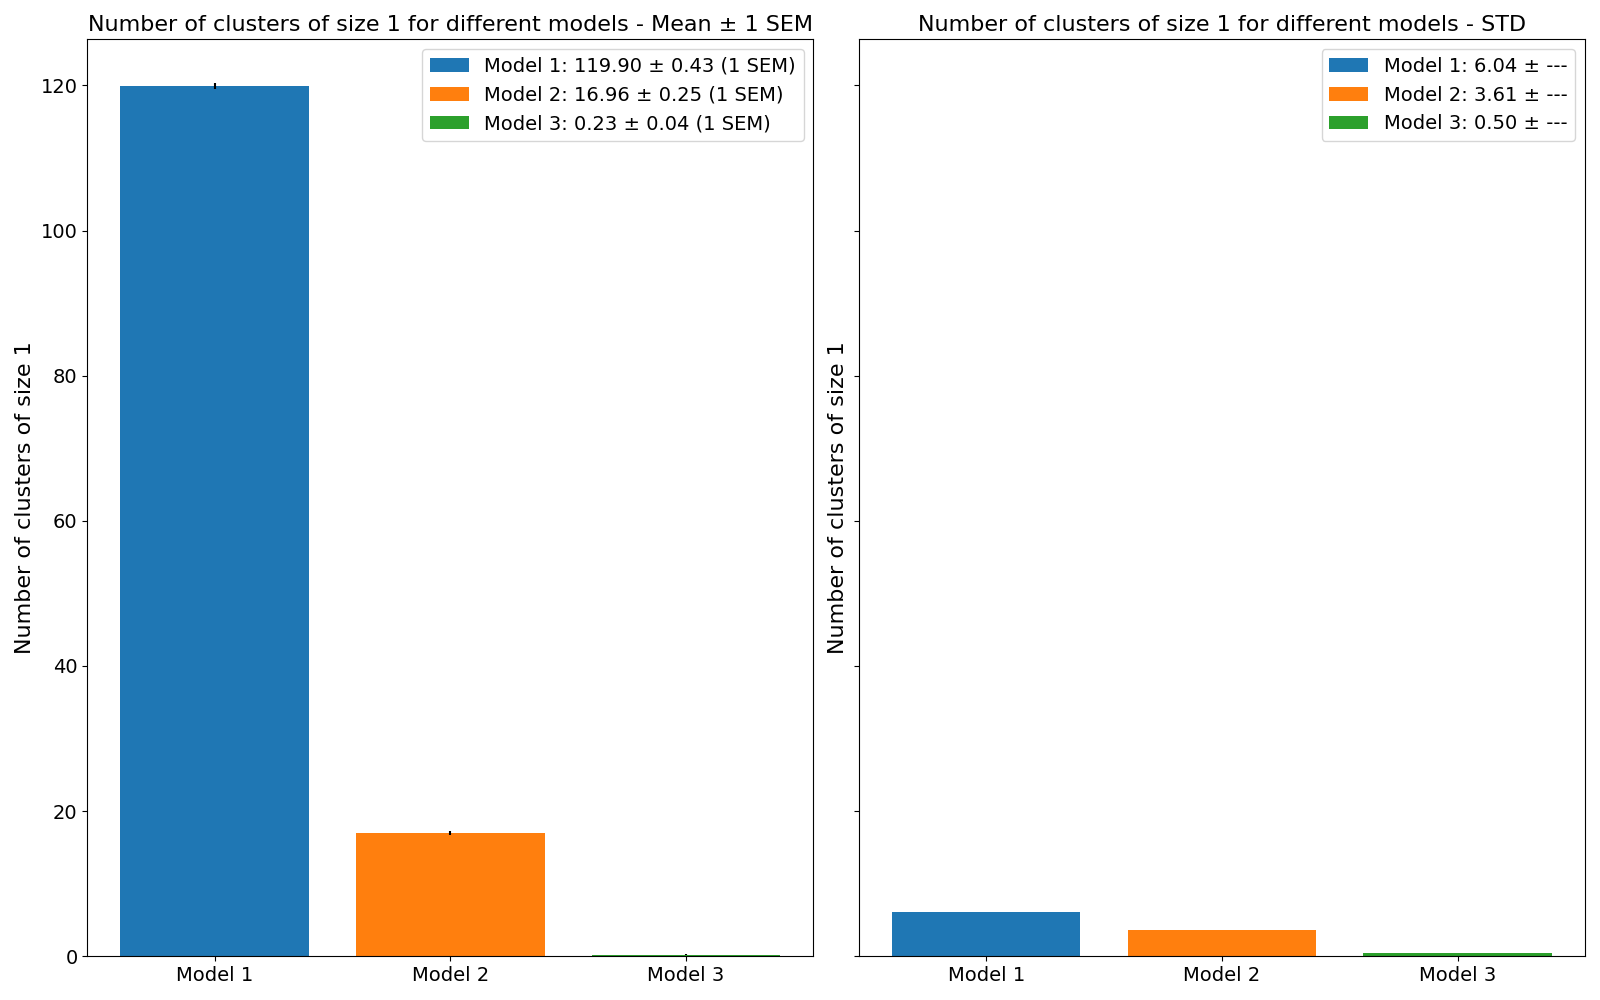
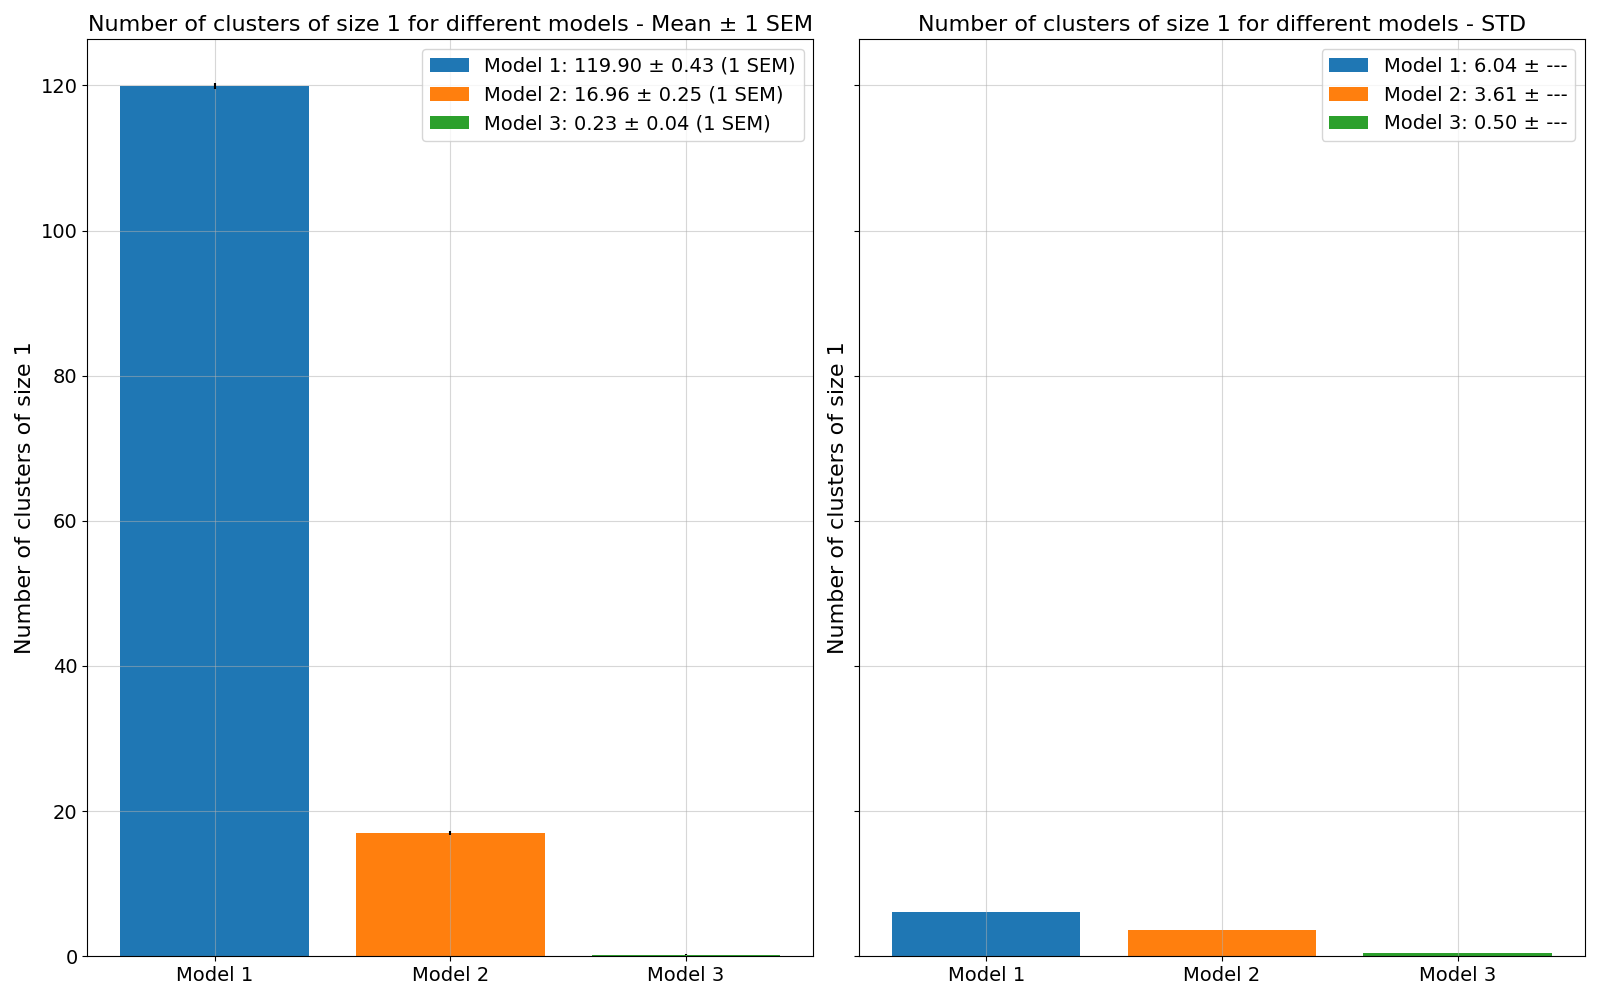
Fixing and adding plots to plots_trimmed_outfiles_fixed.py

diff --git a/plots_code/plots_trimmed_outfiles_fixed.py b/plots_code/plots_trimmed_outfiles_fixed.py
@@ -79,6 +79,7 @@ axs[0].tick_params(axis='y', labelsize=14)
 axs[0].set_ylabel('Number of clusters', fontsize ='16')
 axs[0].set_title('Number of clusters for different models - Mean ± 1 SEM', fontsize ='16')
 axs[0].legend(fontsize=14)
+axs[0].grid(True, alpha=0.5)
 
 
 right_bar_1 = axs[1].bar(models, std_123_1, label=bar_labels_std, color=colors[:4])
@@ -90,6 +91,7 @@ axs[1].tick_params(axis='y', labelsize=14)
 axs[1].set_ylabel('Number of clusters', fontsize ='16')
 axs[1].set_title('Number of clusters for different models - STD', fontsize ='16')
 axs[1].legend(fontsize=14)
+axs[1].grid(True, alpha=0.5)
 
 plt.savefig(save_plots_to + "plot_1_model_123_SS_run_1.png", dpi='figure')
 plt.show()
@@ -112,6 +114,7 @@ axs[0].tick_params(axis='y', labelsize=14)
 axs[0].set_ylabel('Mean size of clusters', fontsize ='16')
 axs[0].set_title('Mean size of clusters for different models - Mean ± 1 SEM', fontsize ='16')
 axs[0].legend(fontsize=14)
+axs[0].grid(True, alpha=0.5)
 
 
 right_bar_2 = axs[1].bar(models, std_123_2, label=bar_labels_std, color=colors[:4])
@@ -123,6 +126,7 @@ axs[1].tick_params(axis='y', labelsize=14)
 axs[1].set_ylabel('Mean size of clusters', fontsize ='16')
 axs[1].set_title('Mean size of clusters for different models - STD', fontsize ='16')
 axs[1].legend(fontsize=14)
+axs[1].grid(True, alpha=0.5)
 
 plt.savefig(save_plots_to + "plot_2_model_123_SS_run_1.png", dpi='figure')
 plt.show()
@@ -145,6 +149,7 @@ axs[0].tick_params(axis='y', labelsize=14)
 axs[0].set_ylabel('Size of largest cluster', fontsize ='16')
 axs[0].set_title('Size of largest cluster for different models - Mean ± 1 SEM', fontsize ='16')
 axs[0].legend(fontsize=14)
+axs[0].grid(True, alpha=0.5)
 
 
 right_bar_3 = axs[1].bar(models, std_123_3, label=bar_labels_std, color=colors[:4])
@@ -156,6 +161,7 @@ axs[1].tick_params(axis='y', labelsize=14)
 axs[1].set_ylabel('Size of largest cluster', fontsize ='16')
 axs[1].set_title('Size of largest cluster for different models - STD', fontsize ='16')
 axs[1].legend(fontsize=14)
+axs[1].grid(True, alpha=0.5)
 
 plt.savefig(save_plots_to + "plot_3_model_123_SS_run_1.png", dpi='figure')
 plt.show()
@@ -178,6 +184,7 @@ axs[0].tick_params(axis='y', labelsize=14)
 axs[0].set_ylabel('Number of clusters of size 1', fontsize ='16')
 axs[0].set_title('Number of clusters of size 1 for different models - Mean ± 1 SEM', fontsize ='16')
 axs[0].legend(fontsize=14)
+axs[0].grid(True, alpha=0.5)
 
 
 right_bar_4 = axs[1].bar(models, std_123_4, label=bar_labels_std, color=colors[:4])
@@ -189,6 +196,7 @@ axs[1].tick_params(axis='y', labelsize=14)
 axs[1].set_ylabel('Number of clusters of size 1', fontsize ='16')
 axs[1].set_title('Number of clusters of size 1 for different models - STD', fontsize ='16')
 axs[1].legend(fontsize=14)
+axs[1].grid(True, alpha=0.5)
 
 plt.savefig(save_plots_to + "plot_4_model_123_SS_run_1.png", dpi='figure')
 plt.show()
@@ -211,6 +219,7 @@ axs[0].tick_params(axis='y', labelsize=14)
 axs[0].set_ylabel('Number of proteins bound to polymer', fontsize ='16')
 axs[0].set_title('Number of proteins bound to polymer for different models - Mean ± 1 SEM', fontsize ='16')
 axs[0].legend(fontsize=14)
+axs[0].grid(True, alpha=0.5)
 
 
 right_bar_5 = axs[1].bar(models, std_123_5, label=bar_labels_std, color=colors[:4])
@@ -222,6 +231,7 @@ axs[1].tick_params(axis='y', labelsize=14)
 axs[1].set_ylabel('Number of proteins bound to polymer', fontsize ='16')
 axs[1].set_title('Number of proteins bound to polymer for different models - STD', fontsize ='16')
 axs[1].legend(fontsize=14)
+axs[1].grid(True, alpha=0.5)
 
 plt.savefig(save_plots_to + "plot_5_model_123_SS_run_1.png", dpi='figure')
 plt.show()
@@ -235,7 +245,7 @@ bar_labels_std = [f'{model}: {std_123_6[i]:.2f} ± ---' for i, model in enumerat
 
 fig, axs = plt.subplots(1, 2, sharey=True, figsize=(16, 10), tight_layout=True)
 
-left_bar_5 = axs[0].bar(models, mean_123_6, yerr=sem_123_6, label=bar_labels_mean, color=colors[:4])
+left_bar_6 = axs[0].bar(models, mean_123_6, yerr=sem_123_6, label=bar_labels_mean, color=colors[:4])
 
 axs[0].set_xticks(x_pos)
 axs[0].tick_params(axis='x', labelsize=14)
@@ -244,9 +254,10 @@ axs[0].tick_params(axis='y', labelsize=14)
 axs[0].set_ylabel('Fraction of clusters bound to polymer', fontsize ='16')
 axs[0].set_title('Fraction of clusters bound to polymer for different models - Mean ± 1 SEM', fontsize ='16')
 axs[0].legend(fontsize=14)
+axs[0].grid(True, alpha=0.5)
 
 
-right_bar_5 = axs[1].bar(models, std_123_6, label=bar_labels_std, color=colors[:4])
+right_bar_6 = axs[1].bar(models, std_123_6, label=bar_labels_std, color=colors[:4])
 
 axs[1].set_xticks(x_pos)
 axs[1].tick_params(axis='x', labelsize=14)
@@ -255,8 +266,44 @@ axs[1].tick_params(axis='y', labelsize=14)
 axs[1].set_ylabel('Fraction of clusters bound to polymer', fontsize ='16')
 axs[1].set_title('Fraction of clusters bound to polymer for different models - STD', fontsize ='16')
 axs[1].legend(fontsize=14)
+axs[1].grid(True, alpha=0.5)
 
 plt.savefig(save_plots_to + "plot_6_model_123_SS_run_1.png", dpi='figure')
+plt.show()
+
+
+# plot 7 - Number of type 2 polymers bound to proteins vs Timesteps - Mean ± 1 SEM and STD
+mean_123_7, std_123_7, sem_123_7 = get_stats_123(data_frames_123_trimmed, 'No_type_2_poly_bound_to_prot')
+
+bar_labels_mean = [f'{model}: {mean_123_7[i]:.2f} ± {sem_123_7[i]:.2f} (1 SEM)' for i, model in enumerate(models)]
+bar_labels_std = [f'{model}: {std_123_7[i]:.2f} ± ---' for i, model in enumerate(models)]
+
+fig, axs = plt.subplots(1, 2, sharey=True, figsize=(16, 10), tight_layout=True)
+
+left_bar_7 = axs[0].bar(models, mean_123_7, yerr=sem_123_7, label=bar_labels_mean, color=colors[:4])
+
+axs[0].set_xticks(x_pos)
+axs[0].tick_params(axis='x', labelsize=14)
+axs[0].tick_params(axis='y', labelsize=14)
+#axs[0].set_xlabel('Models', fontsize ='16')
+axs[0].set_ylabel('Number of type 2 polymers bound to proteins', fontsize ='16')
+axs[0].set_title('Number of type 2 polymers bound to proteins for different models - Mean ± 1 SEM', fontsize ='16')
+axs[0].legend(fontsize=14)
+axs[0].grid(True, alpha=0.5)
+
+
+right_bar_7 = axs[1].bar(models, std_123_7, label=bar_labels_std, color=colors[:4])
+
+axs[1].set_xticks(x_pos)
+axs[1].tick_params(axis='x', labelsize=14)
+axs[1].tick_params(axis='y', labelsize=14)
+#axs[1].set_xlabel('Models', fontsize ='16')
+axs[1].set_ylabel('Number of type 2 polymers bound to proteins', fontsize ='16')
+axs[1].set_title('Number of type 2 polymers bound to proteins for different models - STD', fontsize ='16')
+axs[1].legend(fontsize=14)
+axs[1].grid(True, alpha=0.5)
+
+plt.savefig(save_plots_to + "plot_7_model_123_SS_run_1.png", dpi='figure')
 plt.show()
 
 
@@ -276,10 +323,12 @@ data_frames_4_trimmed_control = {}
 for i in range(1, 9):
     data_frames_4_trimmed[i] = pd.read_csv(path_to_trimmed_outfiles + trimmed_outfiles_list_4[i-1], sep=' ', comment='#', header=None)
     data_frames_4_trimmed[i].columns = ['Timesteps', 'No_of_clusters', 'Mean_size_of_clusters', 
-                                        'Size_of_largest_cluster', 'No_of_clusters_of_size_1', 'No_proteins_bound_to_poly']
+                                        'Size_of_largest_cluster', 'No_of_clusters_of_size_1', 'No_proteins_bound_to_poly', 
+                                        'Fraction_clusters_bound_to_poly', 'No_type_2_poly_bound_to_prot']
     data_frames_4_trimmed_control[i] = pd.read_csv(path_to_trimmed_outfiles + trimmed_outfiles_list_4_control[i-1], sep=' ', comment='#', header=None)
     data_frames_4_trimmed_control[i].columns = ['Timesteps', 'No_of_clusters', 'Mean_size_of_clusters', 
-                                        'Size_of_largest_cluster', 'No_of_clusters_of_size_1', 'No_proteins_bound_to_poly']
+                                        'Size_of_largest_cluster', 'No_of_clusters_of_size_1', 'No_proteins_bound_to_poly', 
+                                        'Fraction_clusters_bound_to_poly', 'No_type_2_poly_bound_to_prot']
 
 
 # get stats of model 4 for a particular dataframe and column + append it to a list
@@ -312,6 +361,7 @@ axs[0].tick_params(axis='y', labelsize=14)
 axs[0].set_xlabel('Protein-protein attraction strength (kBT)', fontsize ='16')
 axs[0].set_ylabel('Number of clusters', fontsize ='16')
 axs[0].set_title('Number of clusters vs. protein-protein attraction strength', fontsize ='16')
+axs[0].grid(True, alpha=0.5)
 
 
 right_bar_1 = axs[1].errorbar(pp_attraction, mean_4_1_control, yerr=sem_4_1_control, fmt='or', alpha=0.7, ecolor='black')
@@ -322,8 +372,9 @@ axs[1].tick_params(axis='y', labelsize=14)
 axs[1].set_xlabel('Protein-protein attraction strength (kBT)', fontsize ='16')
 axs[1].set_ylabel('Number of clusters', fontsize ='16')
 axs[1].set_title('Number of clusters vs. protein-protein attraction strength - Control', fontsize ='16')
+axs[1].grid(True, alpha=0.5)
 
-plt.savefig(save_plots_to + "plot_5_model_4_SS_run_1.png", dpi='figure')
+plt.savefig(save_plots_to + "plot_1_model_4_SS_run_1.png", dpi='figure')
 plt.show()
 
 
@@ -341,6 +392,7 @@ axs[0].tick_params(axis='y', labelsize=14)
 axs[0].set_xlabel('Protein-protein attraction strength (kBT)', fontsize ='16')
 axs[0].set_ylabel('Mean size of clusters', fontsize ='16')
 axs[0].set_title('Mean size of clusters vs. protein-protein attraction strength', fontsize ='16')
+axs[0].grid(True, alpha=0.5)
 
 
 right_bar_2 = axs[1].errorbar(pp_attraction, mean_5_1_control, yerr=sem_5_1_control, fmt='or', alpha=0.7, ecolor='black')
@@ -351,6 +403,7 @@ axs[1].tick_params(axis='y', labelsize=14)
 axs[1].set_xlabel('Protein-protein attraction strength (kBT)', fontsize ='16')
 axs[1].set_ylabel('Mean size of clusters', fontsize ='16')
 axs[1].set_title('Mean size of clusters vs. protein-protein attraction strength - Control', fontsize ='16')
+axs[1].grid(True, alpha=0.5)
 
 plt.savefig(save_plots_to + "plot_2_model_4_SS_run_1.png", dpi='figure')
 plt.show()
@@ -370,6 +423,7 @@ axs[0].tick_params(axis='y', labelsize=14)
 axs[0].set_xlabel('Protein-protein attraction strength (kBT)', fontsize ='16')
 axs[0].set_ylabel('Size of largest cluster', fontsize ='16')
 axs[0].set_title('Size of largest cluster vs. protein-protein attraction strength', fontsize ='16')
+axs[0].grid(True, alpha=0.5)
 
 
 right_bar_3 = axs[1].errorbar(pp_attraction, mean_4_3_control, yerr=sem_4_3_control, fmt='or', alpha=0.7, ecolor='black')
@@ -380,6 +434,7 @@ axs[1].tick_params(axis='y', labelsize=14)
 axs[1].set_xlabel('Protein-protein attraction strength (kBT)', fontsize ='16')
 axs[1].set_ylabel('Size of largest cluster', fontsize ='16')
 axs[1].set_title('Size of largest cluster vs. protein-protein attraction strength - Control', fontsize ='16')
+axs[1].grid(True, alpha=0.5)
 
 plt.savefig(save_plots_to + "plot_3_model_4_SS_run_1.png", dpi='figure')
 plt.show()
@@ -399,6 +454,7 @@ axs[0].tick_params(axis='y', labelsize=14)
 axs[0].set_xlabel('Protein-protein attraction strength (kBT)', fontsize ='16')
 axs[0].set_ylabel('Number of clusters of size 1', fontsize ='16')
 axs[0].set_title('Number of clusters of size 1 vs. protein-protein attraction strength', fontsize ='16')
+axs[0].grid(True, alpha=0.5)
 
 
 right_bar_4 = axs[1].errorbar(pp_attraction, mean_4_4_control, yerr=sem_4_4_control, fmt='or', alpha=0.7, ecolor='black')
@@ -409,6 +465,7 @@ axs[1].tick_params(axis='y', labelsize=14)
 axs[1].set_xlabel('Protein-protein attraction strength (kBT)', fontsize ='16')
 axs[1].set_ylabel('Number of clusters of size 1', fontsize ='16')
 axs[1].set_title('Number of clusters of size 1 vs. protein-protein attraction strength - Control', fontsize ='16')
+axs[1].grid(True, alpha=0.5)
 
 plt.savefig(save_plots_to + "plot_4_model_4_SS_run_1.png", dpi='figure')
 plt.show()
@@ -428,6 +485,7 @@ axs[0].tick_params(axis='y', labelsize=14)
 axs[0].set_xlabel('Protein-protein attraction strength (kBT)', fontsize ='16')
 axs[0].set_ylabel('Number of proteins bound to polymer', fontsize ='16')
 axs[0].set_title('Number of proteins bound to polymer vs. protein-protein attraction strength', fontsize ='16')
+axs[0].grid(True, alpha=0.5)
 
 
 right_bar_5 = axs[1].errorbar(pp_attraction, mean_4_5_control, yerr=sem_4_5_control, fmt='or', alpha=0.7, ecolor='black')
@@ -438,6 +496,69 @@ axs[1].tick_params(axis='y', labelsize=14)
 axs[1].set_xlabel('Protein-protein attraction strength (kBT)', fontsize ='16')
 axs[1].set_ylabel('Number of proteins bound to polymer', fontsize ='16')
 axs[1].set_title('Number of proteins bound to polymer vs. protein-protein attraction strength - Control', fontsize ='16')
+axs[1].grid(True, alpha=0.5)
 
 plt.savefig(save_plots_to + "plot_5_model_4_SS_run_1.png", dpi='figure')
+plt.show()
+
+
+# plot 6 - Fraction of clusters bound to polymer vs. protein-protein attraction strength
+mean_4_6, std_4_6, sem_4_6 = get_stats_4(data_frames_4_trimmed, 'Fraction_clusters_bound_to_poly')
+mean_4_6_control, std_4_6_control, sem_4_6_control = get_stats_4(data_frames_4_trimmed_control, 'Fraction_clusters_bound_to_poly')
+
+fig, axs = plt.subplots(1, 2, sharey=True, figsize=(16, 10), tight_layout=True)
+
+left_bar_6 = axs[0].errorbar(pp_attraction, mean_4_6, yerr=sem_4_6, fmt='or', alpha=0.7, ecolor='black')
+
+axs[0].set_xticks(pp_attraction)
+axs[0].tick_params(axis='x', labelsize=14)
+axs[0].tick_params(axis='y', labelsize=14)
+axs[0].set_xlabel('Protein-protein attraction strength (kBT)', fontsize ='16')
+axs[0].set_ylabel('Fraction of clusters bound to polymer', fontsize ='16')
+axs[0].set_title('Fraction of clusters bound to polymer vs. protein-protein attraction strength', fontsize ='16')
+axs[0].grid(True, alpha=0.5)
+
+
+right_bar_6 = axs[1].errorbar(pp_attraction, mean_4_6_control, yerr=sem_4_6_control, fmt='or', alpha=0.7, ecolor='black')
+
+axs[1].set_xticks(pp_attraction)
+axs[1].tick_params(axis='x', labelsize=14)
+axs[1].tick_params(axis='y', labelsize=14)
+axs[1].set_xlabel('Protein-protein attraction strength (kBT)', fontsize ='16')
+axs[1].set_ylabel('Fraction of clusters bound to polymer', fontsize ='16')
+axs[1].set_title('Fraction of clusters bound to polymer vs. protein-protein attraction strength - Control', fontsize ='16')
+axs[1].grid(True, alpha=0.5)
+
+plt.savefig(save_plots_to + "plot_6_model_4_SS_run_1.png", dpi='figure')
+plt.show()
+
+
+# plot 7 - Number of type 2 polymers bound to proteins vs. protein-protein attraction strength
+mean_4_7, std_4_7, sem_4_7 = get_stats_4(data_frames_4_trimmed, 'No_type_2_poly_bound_to_prot')
+mean_4_7_control, std_4_7_control, sem_4_7_control = get_stats_4(data_frames_4_trimmed_control, 'No_type_2_poly_bound_to_prot')
+
+fig, axs = plt.subplots(1, 2, sharey=True, figsize=(16, 10), tight_layout=True)
+
+left_bar_7 = axs[0].errorbar(pp_attraction, mean_4_7, yerr=sem_4_7, fmt='or', alpha=0.7, ecolor='black')
+
+axs[0].set_xticks(pp_attraction)
+axs[0].tick_params(axis='x', labelsize=14)
+axs[0].tick_params(axis='y', labelsize=14)
+axs[0].set_xlabel('Protein-protein attraction strength (kBT)', fontsize ='16')
+axs[0].set_ylabel('Number of type 2 polymers bound to proteins', fontsize ='16')
+axs[0].set_title('Number of type 2 polymers bound to proteins vs. protein-protein attraction strength', fontsize ='16')
+axs[0].grid(True, alpha=0.5)
+
+
+right_bar_7 = axs[1].errorbar(pp_attraction, mean_4_7_control, yerr=sem_4_7_control, fmt='or', alpha=0.7, ecolor='black')
+
+axs[1].set_xticks(pp_attraction)
+axs[1].tick_params(axis='x', labelsize=14)
+axs[1].tick_params(axis='y', labelsize=14)
+axs[1].set_xlabel('Protein-protein attraction strength (kBT)', fontsize ='16')
+axs[1].set_ylabel('Number of type 2 polymers bound to proteins', fontsize ='16')
+axs[1].set_title('Number of type 2 polymers bound to proteins vs. protein-protein attraction strength - Control', fontsize ='16')
+axs[1].grid(True, alpha=0.5)
+
+plt.savefig(save_plots_to + "plot_7_model_4_SS_run_1.png", dpi='figure')
 plt.show()
